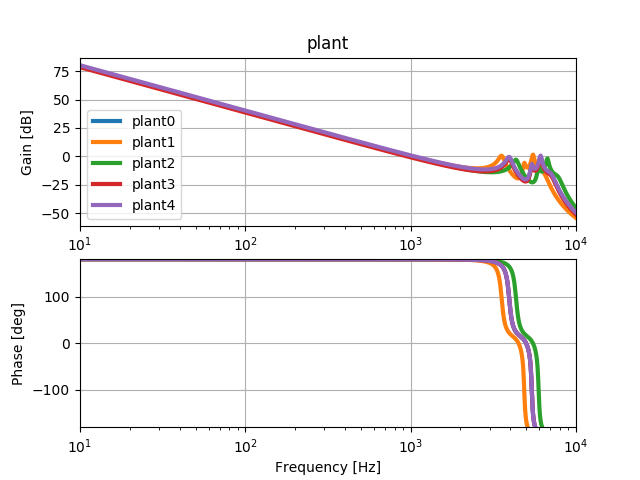
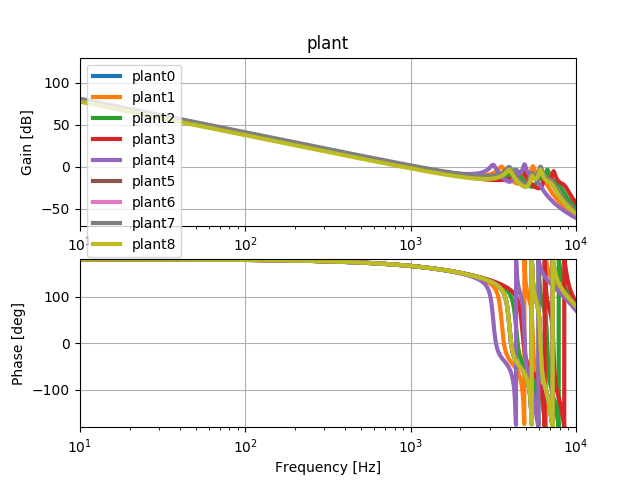
ADD myfbcd example3

Changed region(s): [[0.0625, 0.125, 0.9062, 0.9062]]

diff --git a/examples/2_Automated_Feedback_Controller_Design/Example3_Another_Various_FRFs_Nano_Scale_Servo.py b/examples/2_Automated_Feedback_Controller_Design/Example3_Another_Various_FRFs_Nano_Scale_Servo.py
@@ -1,0 +1,86 @@
+"""
+Example1: Single_FRF_Nano_Scale_Servo
+Reference: page 105, T. Yamaguchi, M. Hirata and H. Fujimoto, Nanoscale servo control, Tokyo Denki University Press, 2002.
+"""
+
+from myfbcd import *
+import myplot
+import mysignal
+import mycsv
+from scipy import signal
+
+from Example1_Single_FRF_Nano_Scale_Servo import *
+
+DATA = "data"
+F = 1000  # number of FRF lines
+TS = 50 * 10 ** (-6)  # sampring of FIRs
+TD = 3 / 10 * TS  # Delay
+PERT = (0, -0.1, 0.1, 0.2, -0.2)  # perturbation
+NDATA = 2 * len(PERT) - 1
+
+
+def plant_data(fig):
+    """
+    return FRF
+    :return:
+    """
+    on = 2 * np.pi * np.array([0, 3950, 5400, 6100, 7100])
+    kappa = [1, -1, 0.4, -1.2, 0.9]
+    zeta = [0, 0.035, 0.015, 0.015, 0.06]
+    Kp = 3.7 * 10 ** 7
+
+    ol = np.array([])
+    hl = np.array([])
+    fig += 1
+    for i in range(2):
+        for l in PERT:
+            if l == 0 and i > 0:
+                continue
+            P = 0
+            for o, k, z in zip(on, kappa, zeta):
+                o *= (1 + l * (i == 0))
+                k *= (1 + l * (i == 1))
+                z *= (1 + l * (i == 2))
+                P += k / (s ** 2 + 2 * z * o * s + o ** 2)
+            P *= Kp
+            # calc continous
+            p = mysignal.symbolic_to_tf(P, s, ts=0)
+            o = 2 * np.pi * np.linspace(10 ** 0, 10 ** 4, num=F)
+            o, mag, phase = signal.bode(p, w=o)
+            theta = phase / 180 * np.pi
+            a = 10 ** (mag / 20)
+            h = a * np.exp(1.j * theta)
+            # calc discrete with 3/10 delay
+            h = h * mysignal.zoh_w_delay(o, TS, TD)
+            myplot.bodeplot(fig, o / 2 / np.pi, 20 * np.log10(abs(h)), np.angle(h, deg=True), line_style="-",
+                            xl=[10 ** 1, 10 ** 4])
+
+            ol = np.append(ol, o)
+            hl = np.append(hl, h)
+
+    myplot.save(fig, save_name=DATA + "/" + str(fig) + "_plant", title="plant",
+                leg=["plant" + str(i) for i in range(NDATA)])
+    mycsv.save(ol, np.real(hl), np.imag(hl), save_name=DATA + "/example1_plant_frf.csv",
+               header=("o (rad/s)", "real(FRF)", "imag(FRF)"))
+
+    assert len(ol) == len(hl)
+    return fig, np.array(ol), np.array(hl)
+
+
+if __name__ == "__main__":
+    from sympy import *
+    import os
+
+    try:
+        os.mkdir(DATA)
+    except:
+        pass
+
+    s = symbols('s')
+
+    fig = -1
+    fig, o, g = plant_data(fig)
+    fig, fbc = optimize(fig, o, g, nofir=30)
+    fig = plotall(fig, fbc, ndata=NDATA)
+
+    myplot.show()
